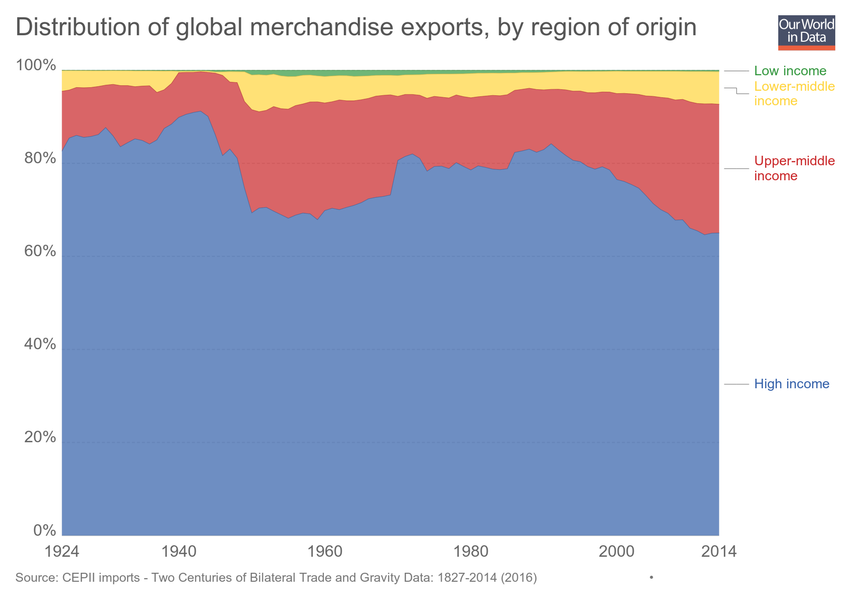
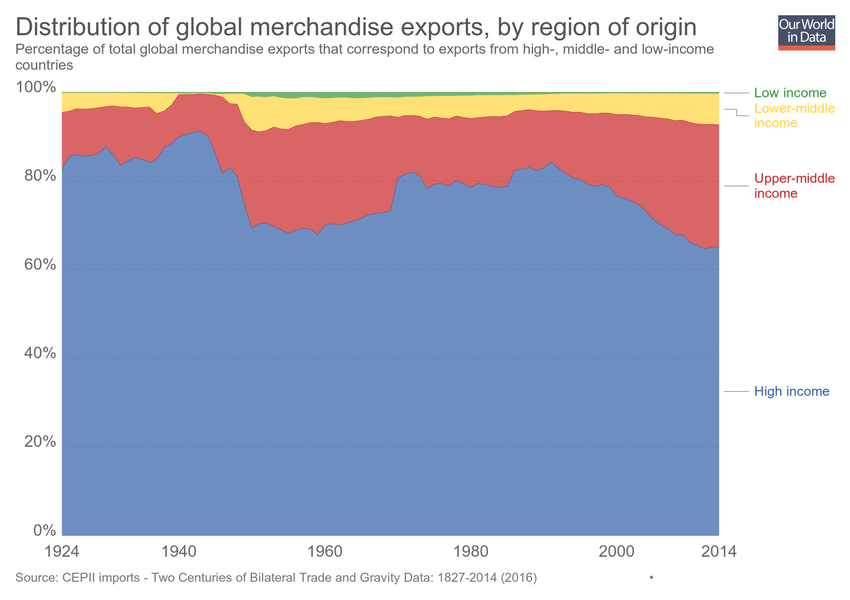
Updating chart distribution-of-global-merchandise-exports-by-region-of-origin

diff --git a/grapher/distribution-of-global-merchandise-exports-by-region-of-origin.html b/grapher/distribution-of-global-merchandise-exports-by-region-of-origin.html
@@ -1,4 +1,4 @@
-<!doctype html><html><head><meta name="viewport" content="width=device-width, initial-scale=1" /><title>Distribution of global merchandise exports, by region of origin - Our World in Data</title><meta name="description" content="An interactive visualization from Our World in Data." /><link rel="canonical" href="https://ourworldindata.org/grapher/distribution-of-global-merchandise-exports-by-region-of-origin" /><meta property="fb:app_id" content="1149943818390250" /><meta property="og:url" content="https://ourworldindata.org/grapher/distribution-of-global-merchandise-exports-by-region-of-origin" /><meta property="og:title" content="Distribution of global merchandise exports, by region of origin" /><meta property="og:description" content="An interactive visualization from Our World in Data." /><meta property="og:image" content="https://ourworldindata.org/grapher/exports/distribution-of-global-merchandise-exports-by-region-of-origin.png?v=2" /><meta property="og:image:width" content="850" /><meta property="og:image:height" content="600" /><meta property="og:site_name" content="Our World in Data" /><meta name="twitter:card" content="summary_large_image" /><meta name="twitter:site" content="@OurWorldInData" /><meta name="twitter:creator" content="@OurWorldInData" /><meta name="twitter:title" content="Distribution of global merchandise exports, by region of origin" /><meta name="twitter:description" content="An interactive visualization from Our World in Data." /><meta name="twitter:image" content="https://ourworldindata.org/grapher/exports/distribution-of-global-merchandise-exports-by-region-of-origin.png?v=2" /><style>
+<!doctype html><html><head><meta name="viewport" content="width=device-width, initial-scale=1" /><title>Distribution of global merchandise exports, by region of origin - Our World in Data</title><meta name="description" content="Percentage of total global merchandise exports that correspond to exports from high-, middle- and low-income countries" /><link rel="canonical" href="https://ourworldindata.org/grapher/distribution-of-global-merchandise-exports-by-region-of-origin" /><meta property="fb:app_id" content="1149943818390250" /><meta property="og:url" content="https://ourworldindata.org/grapher/distribution-of-global-merchandise-exports-by-region-of-origin" /><meta property="og:title" content="Distribution of global merchandise exports, by region of origin" /><meta property="og:description" content="Percentage of total global merchandise exports that correspond to exports from high-, middle- and low-income countries" /><meta property="og:image" content="https://ourworldindata.org/grapher/exports/distribution-of-global-merchandise-exports-by-region-of-origin.png?v=4" /><meta property="og:image:width" content="850" /><meta property="og:image:height" content="600" /><meta property="og:site_name" content="Our World in Data" /><meta name="twitter:card" content="summary_large_image" /><meta name="twitter:site" content="@OurWorldInData" /><meta name="twitter:creator" content="@OurWorldInData" /><meta name="twitter:title" content="Distribution of global merchandise exports, by region of origin" /><meta name="twitter:description" content="Percentage of total global merchandise exports that correspond to exports from high-, middle- and low-income countries" /><meta name="twitter:image" content="https://ourworldindata.org/grapher/exports/distribution-of-global-merchandise-exports-by-region-of-origin.png?v=4" /><style>
         html, body {
             height: 100%;
             margin: 0;
@@ -20,8 +20,8 @@
         }
     </style><noscript><style>
                     figure { display: none !important; }
-                </style></noscript><link rel="stylesheet" href="https://ourworldindata.org/grapher/assets/commons.bundle.dcbbe53805c487d5e57617b10ac73a8a.css" /><link rel="preload" href="/grapher/data/variables/93834.json?v=2" as="fetch" crossorigin /></head><body class="singleChart"><figure data-grapher-src="/grapher/distribution-of-global-merchandise-exports-by-region-of-origin"></figure><noscript id="fallback"><img src="/grapher/exports/distribution-of-global-merchandise-exports-by-region-of-origin.svg" /><p>Interactive visualization requires JavaScript</p></noscript><script src="https://cdn.polyfill.io/v2/polyfill.min.js?features=es6,fetch"></script><script src="https://ourworldindata.org/grapher/assets/commons.bundle.0885398ca21a9d555396.js"></script><script src="https://ourworldindata.org/grapher/assets/charts.bundle.0885398ca21a9d555396.js"></script><script>
-        var jsonConfig = {"id":2808,"map":{"projection":"World","colorSchemeLabels":[],"colorSchemeValues":[],"customNumericColors":[],"customCategoryColors":{},"customCategoryLabels":{},"customHiddenCategories":{}},"tab":"chart","slug":"distribution-of-global-merchandise-exports-by-region-of-origin","type":"StackedArea","title":"Distribution of global merchandise exports, by region of origin","xAxis":{"scaleType":"linear"},"yAxis":{"min":0,"scaleType":"linear"},"version":2,"hasMapTab":false,"stackMode":"relative","dimensions":[{"display":{},"property":"y","variableId":93834}],"isAutoSlug":true,"hasChartTab":true,"isPublished":true,"selectedData":[{"index":0,"entityId":326},{"index":0,"entityId":37224},{"index":0,"entityId":37225},{"index":0,"entityId":320}],"addCountryMode":"disabled","hideRelativeToggle":true,"hideTitleAnnotation":true};
+                </style></noscript><link rel="stylesheet" href="https://ourworldindata.org/grapher/assets/commons.bundle.dcbbe53805c487d5e57617b10ac73a8a.css" /><link rel="preload" href="/grapher/data/variables/93834.json?v=4" as="fetch" crossorigin /></head><body class="singleChart"><figure data-grapher-src="/grapher/distribution-of-global-merchandise-exports-by-region-of-origin"></figure><noscript id="fallback"><img src="/grapher/exports/distribution-of-global-merchandise-exports-by-region-of-origin.svg" /><p>Interactive visualization requires JavaScript</p></noscript><script src="https://cdn.polyfill.io/v2/polyfill.min.js?features=es6,fetch"></script><script src="https://ourworldindata.org/grapher/assets/commons.bundle.0885398ca21a9d555396.js"></script><script src="https://ourworldindata.org/grapher/assets/charts.bundle.0885398ca21a9d555396.js"></script><script>
+        var jsonConfig = {"id":2808,"map":{"projection":"World","colorSchemeLabels":[],"colorSchemeValues":[],"customNumericColors":[],"customCategoryColors":{},"customCategoryLabels":{},"customHiddenCategories":{}},"tab":"chart","slug":"distribution-of-global-merchandise-exports-by-region-of-origin","type":"StackedArea","title":"Distribution of global merchandise exports, by region of origin","xAxis":{"scaleType":"linear"},"yAxis":{"min":0,"scaleType":"linear"},"version":4,"subtitle":"Percentage of total global merchandise exports that correspond to exports from high-, middle- and low-income countries","hasMapTab":false,"stackMode":"relative","dimensions":[{"display":{},"property":"y","variableId":93834}],"hasChartTab":true,"isPublished":true,"selectedData":[{"index":0,"entityId":326},{"index":0,"entityId":37224},{"index":0,"entityId":37225},{"index":0,"entityId":320}],"addCountryMode":"disabled","hideRelativeToggle":true,"hideTitleAnnotation":true};
         var figure = document.getElementsByTagName("figure")[0];
         try {
             window.App = {};
